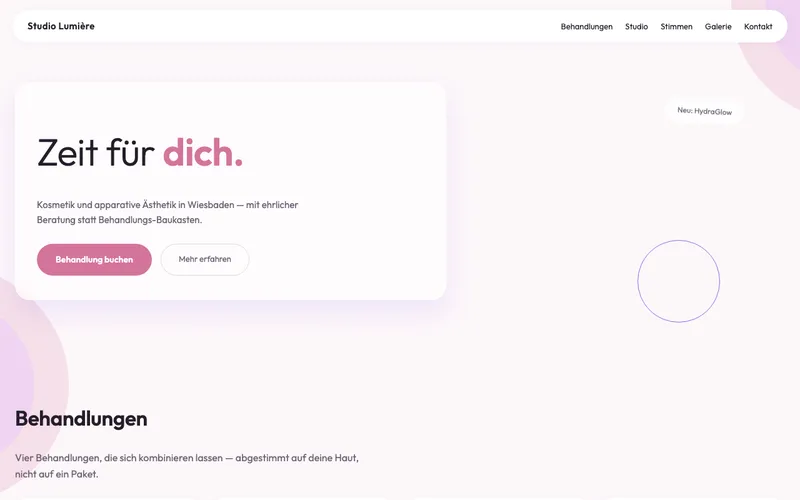
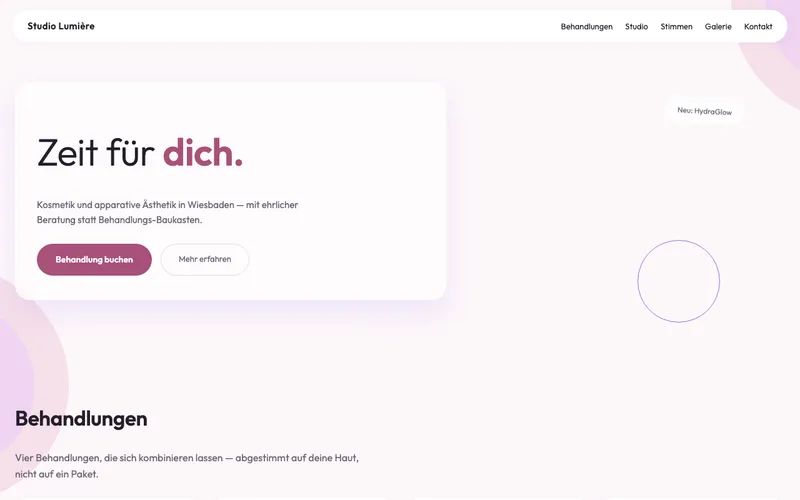
fix: Pack-Vorschauen/Demo-SVGs/Shadows an neue Akzentfarben angepasst, Farbassertion in packs.spec, prefersMenu ohne marktplatz, Esc in Panels schont Entwürfe, regenerateLegalPages ohne Token-Pfad

Changed region(s): [[0.0312, 0.48, 0.1875, 0.57], [0.1875, 0.27, 0.3125, 0.33]]

diff --git a/server/routers.v2Guards.test.ts b/server/routers.v2Guards.test.ts
@@ -148,54 +148,19 @@ beforeEach(() => {
 });
 
 describe("Zentraler Write-Guard (C-3)", () => {
-  test("onboarding.regenerateLegalPages ohne Token/Login (anonym) → FORBIDDEN, kein Write", async () => {
-    mockedDb.getWebsiteById.mockResolvedValue(
-      baseWebsiteRow({ previewToken: "correct-token" })
-    );
+  test("onboarding.regenerateLegalPages ohne Login (anonym) → UNAUTHORIZED, kein Write", async () => {
+    mockedDb.getWebsiteById.mockResolvedValue(baseWebsiteRow());
 
     const caller = appRouter.createCaller(createPublicContext());
     await expect(
       caller.onboarding.regenerateLegalPages({ websiteId: 42 })
-    ).rejects.toMatchObject({ code: "FORBIDDEN" });
+    ).rejects.toMatchObject({ code: "UNAUTHORIZED" });
     expect(mockedDb.getOnboardingByWebsiteId).not.toHaveBeenCalled();
     expect(mockedDb.updateWebsite).not.toHaveBeenCalled();
   });
 
-  test("onboarding.regenerateLegalPages mit passendem previewToken (Studio-Kontext) schreibt nach websiteData.legal.* statt top-level", async () => {
-    mockedDb.getWebsiteById.mockResolvedValue(
-      baseWebsiteRow({ previewToken: "correct-token" })
-    );
-    mockedDb.getOnboardingByWebsiteId.mockResolvedValue({
-      legalOwner: "Max Brandt",
-      legalEmail: "info@brandt.de",
-      legalStreet: "Hauptstraße 1",
-      legalZip: "44135",
-      legalCity: "Dortmund",
-    } as any);
-    mockedDb.updateWebsite.mockResolvedValue(undefined as any);
-
-    const caller = appRouter.createCaller(createPublicContext());
-    const result = await caller.onboarding.regenerateLegalPages({
-      websiteId: 42,
-      token: "correct-token",
-    });
-
-    expect(result).toEqual({ success: true, regenerated: true });
-    expect(mockedDb.updateWebsite).toHaveBeenCalledTimes(1);
-    const [, patch] = mockedDb.updateWebsite.mock.calls[0];
-    const writtenWebsiteData = (patch as any).websiteData;
-    expect(writtenWebsiteData.legal?.impressumHtml).toBeTruthy();
-    expect(writtenWebsiteData.legal?.datenschutzHtml).toBeTruthy();
-    // v1-only Top-Level-Felder dürfen NICHT in websiteData landen (strict schema)
-    expect(writtenWebsiteData.impressumHtml).toBeUndefined();
-    expect(writtenWebsiteData.datenschutzHtml).toBeUndefined();
-    expect(mockedInvalidateSsrCache).toHaveBeenCalledWith("schreinerei-brandt");
-  });
-
-  test("onboarding.regenerateLegalPages im Admin-Kontext (kein Token nötig) schreibt erfolgreich", async () => {
-    mockedDb.getWebsiteById.mockResolvedValue(
-      baseWebsiteRow({ previewToken: "correct-token" })
-    );
+  test("onboarding.regenerateLegalPages im Admin-Kontext schreibt nach websiteData.legal.* statt top-level", async () => {
+    mockedDb.getWebsiteById.mockResolvedValue(baseWebsiteRow());
     mockedDb.getOnboardingByWebsiteId.mockResolvedValue({
       legalOwner: "Max Brandt",
       legalEmail: "info@brandt.de",
@@ -212,12 +177,18 @@ describe("Zentraler Write-Guard (C-3)", () => {
 
     expect(result).toEqual({ success: true, regenerated: true });
     expect(mockedDb.updateWebsite).toHaveBeenCalledTimes(1);
+    const [, patch] = mockedDb.updateWebsite.mock.calls[0];
+    const writtenWebsiteData = (patch as any).websiteData;
+    expect(writtenWebsiteData.legal?.impressumHtml).toBeTruthy();
+    expect(writtenWebsiteData.legal?.datenschutzHtml).toBeTruthy();
+    // v1-only Top-Level-Felder dürfen NICHT in websiteData landen (strict schema)
+    expect(writtenWebsiteData.impressumHtml).toBeUndefined();
+    expect(writtenWebsiteData.datenschutzHtml).toBeUndefined();
+    expect(mockedInvalidateSsrCache).toHaveBeenCalledWith("schreinerei-brandt");
   });
 
-  test("onboarding.regenerateLegalPages als eingeloggter Abo-Inhaber (ohne Token) schreibt erfolgreich", async () => {
-    mockedDb.getWebsiteById.mockResolvedValue(
-      baseWebsiteRow({ previewToken: "correct-token" })
-    );
+  test("onboarding.regenerateLegalPages als eingeloggter Abo-Inhaber schreibt erfolgreich", async () => {
+    mockedDb.getWebsiteById.mockResolvedValue(baseWebsiteRow());
     mockedDb.getSubscriptionByWebsiteId.mockResolvedValue({
       id: 1,
       websiteId: 42,
@@ -242,9 +213,7 @@ describe("Zentraler Write-Guard (C-3)", () => {
   });
 
   test("onboarding.regenerateLegalPages als eingeloggter Nutzer ohne passende Subscription (anderer userId) → FORBIDDEN, kein Write", async () => {
-    mockedDb.getWebsiteById.mockResolvedValue(
-      baseWebsiteRow({ previewToken: "correct-token" })
-    );
+    mockedDb.getWebsiteById.mockResolvedValue(baseWebsiteRow());
     // Subscription existiert, gehört aber einem anderen Nutzer (websiteId
     // stimmt, userId nicht) — isSubscriptionOwner muss false bleiben.
     mockedDb.getSubscriptionByWebsiteId.mockResolvedValue({
@@ -262,9 +231,7 @@ describe("Zentraler Write-Guard (C-3)", () => {
   });
 
   test("onboarding.regenerateLegalPages als eingeloggter Nutzer ohne jede Subscription (getSubscriptionByWebsiteId → null) → FORBIDDEN, kein Write", async () => {
-    mockedDb.getWebsiteById.mockResolvedValue(
-      baseWebsiteRow({ previewToken: "correct-token" })
-    );
+    mockedDb.getWebsiteById.mockResolvedValue(baseWebsiteRow());
     mockedDb.getSubscriptionByWebsiteId.mockResolvedValue(undefined as any);
 
     const caller = appRouter.createCaller(createUserContext(2));

diff --git a/tests/visual/packs.spec.ts b/tests/visual/packs.spec.ts
@@ -1,4 +1,6 @@
 import { expect, test } from "@playwright/test";
+import { getConstitution } from "@shared/stylePacks";
+import type { PackId } from "@shared/siteContract/types";
 
 const PACKS = [
   "werkbank",
@@ -23,6 +25,14 @@ const VIEWPORTS = [
   { name: "desktop", width: 1440, height: 900 },
 ];
 
+// maxDiffPixelRatio enger als der globale Default (playwright.config.ts:
+// 0.01) — der 1%-Wert verschluckte 5 von 6 Farbfixes aus B4c Task 7 (siehe
+// Task-7-Bericht "Important"). 0.003 ist datei-spezifisch (nur hier per
+// Options-Objekt, nicht global), weil studio.spec.ts/landing.spec.ts mit
+// dem globalen Wert weiterlaufen sollen (Live-Preview-iframes/Fokus-Ringe
+// dort brauchen mehr Toleranz).
+const PACKS_MAX_DIFF_PIXEL_RATIO = 0.003;
+
 for (const pack of PACKS)
   for (const fixture of FIXTURES)
     for (const vp of VIEWPORTS) {
@@ -32,7 +42,82 @@ for (const pack of PACKS)
         await page.waitForLoadState("networkidle"); // Fonts geladen
         await expect(page).toHaveScreenshot(
           `${pack}-${fixture}-${vp.name}.png`,
-          { fullPage: true }
+          { fullPage: true, maxDiffPixelRatio: PACKS_MAX_DIFF_PIXEL_RATIO }
         );
       });
     }
+
+/**
+ * Deterministische Farbassertion je Pack (B4c Final-Review-Fixwelle 2):
+ * Screenshot-Diffs allein verschlucken Farbabweichungen unterhalb der
+ * Pixel-Ratio-Schwelle (siehe Task-7-Bericht). Diese Tests prüfen den
+ * computed style des primären Hero-CTAs direkt gegen die Verfassung
+ * (`getConstitution(pack).palette`) — unabhängig vom Diff-Schwellenwert.
+ *
+ * Selektor + CSS-Eigenschaft je Pack aus dem jeweiligen `css.ts` ermittelt
+ * (siehe `client/src/components/site/packs/<pack>/css.ts`):
+ * - Die meisten Packs rendern den Hero-CTA als gefüllten Button
+ *   (`background:var(--pb-accent)`) → `background-color` gegen `accent`.
+ * - `kanzlei` und `salon-noir` rendern den CTA als reinen Textlink/Outline
+ *   mit `color:var(--pb-accent)` im Ruhezustand → `color` gegen `accent`.
+ * - `atelier` und `fundament` färben den CTA im Ruhezustand NICHT mit
+ *   `accent`, sondern mit `ink` (atelier: `.pb-at-lnk` erbt `color` von
+ *   `.pb-atelier{color:var(--pb-ink)}` und hat `border-bottom:var(--pb-ink)`;
+ *   fundament: `.pb-fd-cta{background:var(--pb-ink)}`) — hier wird explizit
+ *   gegen den `ink`-Paletteneintrag geprüft, nicht gegen `accent`.
+ */
+const CTA_COLOR_CHECKS: Record<
+  PackId,
+  { selector: string; prop: "background-color" | "color"; role: "accent" | "ink" }
+> = {
+  werkbank: { selector: "a.pb-wb-cta", prop: "background-color", role: "accent" },
+  kanzlei: { selector: "a.pb-kz-link", prop: "color", role: "accent" },
+  morgenlicht: { selector: "a.pb-ml-cta", prop: "background-color", role: "accent" },
+  gusto: { selector: "a.pb-gu-cta", prop: "background-color", role: "accent" },
+  patina: { selector: "a.pb-pa-cta", prop: "background-color", role: "accent" },
+  "salon-noir": { selector: "a.pb-sn-cta", prop: "color", role: "accent" },
+  marktplatz: { selector: "a.pb-mp-cta", prop: "background-color", role: "accent" },
+  landgut: { selector: "a.pb-lg-cta", prop: "background-color", role: "accent" },
+  atelier: { selector: "a.pb-at-lnk", prop: "color", role: "ink" },
+  klarwerk: { selector: "a.pb-kw-hero-cta", prop: "background-color", role: "accent" },
+  verve: { selector: "a.pb-vv-cta", prop: "background-color", role: "accent" },
+  zunft: { selector: "a.pb-zf-cta", prop: "background-color", role: "accent" },
+  schimmer: { selector: "a.pb-sc-cta", prop: "background-color", role: "accent" },
+  fundament: { selector: "a.pb-fd-cta", prop: "background-color", role: "ink" },
+};
+
+/** "rgb(r, g, b)" / "rgba(r, g, b, a)" → "#rrggbb" (lowercase). */
+function rgbStringToHex(rgb: string): string {
+  const match = rgb.match(/rgba?\((\d+),\s*(\d+),\s*(\d+)/);
+  if (!match) throw new Error(`Kein rgb()-Farbwert: "${rgb}"`);
+  const [, r, g, b] = match;
+  return (
+    "#" +
+    [r, g, b]
+      .map(n => Number(n).toString(16).padStart(2, "0"))
+      .join("")
+      .toLowerCase()
+  );
+}
+
+for (const pack of PACKS) {
+  const check = CTA_COLOR_CHECKS[pack];
+  test(`${pack}: Hero-CTA-Farbe entspricht Verfassung (${check.role})`, async ({ page }) => {
+    await page.goto(`/dev/site-preview?pack=${pack}&fixture=full`);
+    await page.waitForLoadState("networkidle");
+
+    const constitution = getConstitution(pack);
+    const paletteEntry = constitution.palette.find(p => p.role === check.role);
+    if (!paletteEntry)
+      throw new Error(`Pack "${pack}" hat keinen Paletteneintrag mit role "${check.role}"`);
+
+    const cta = page.locator(check.selector).first();
+    await expect(cta).toBeVisible();
+    const computed = await cta.evaluate(
+      (el, prop) => getComputedStyle(el).getPropertyValue(prop),
+      check.prop
+    );
+
+    expect(rgbStringToHex(computed)).toBe(paletteEntry.hex.toLowerCase());
+  });
+}

diff --git a/server/routers.ts b/server/routers.ts
@@ -1924,11 +1924,13 @@ Diese E-Mail wurde von Christian Slater, Gründer von Pageblitz, gesendet.<br>
       }),
 
     // Regenerate legal pages (Impressum & Datenschutz) after legal data changes.
-    // Zugriff (Spec §2.3): Admin, Studio-Kontext (passender previewToken)
-    // oder eingeloggter Abo-Inhaber — sonst FORBIDDEN. Bleibt publicProcedure,
-    // weil der anonyme Studio-Kontext (Token statt Login) erlaubt sein muss.
-    regenerateLegalPages: publicProcedure
-      .input(z.object({ websiteId: z.number(), token: z.string().optional() }))
+    // Zugriff (Spec §2.3, verschärft in B4c Final-Review-Fixwelle 2): nur
+    // Admin oder eingeloggter Abo-Inhaber — kein anonymer Token-Pfad mehr
+    // (der previewToken-Zweig hatte keinen Client-Aufrufer und war
+    // schwächer als die Ownership-Prüfung; siehe Final-Review). Deshalb
+    // protectedProcedure statt publicProcedure.
+    regenerateLegalPages: protectedProcedure
+      .input(z.object({ websiteId: z.number() }))
       .mutation(async ({ ctx, input }) => {
         const website = await getWebsiteById(input.websiteId);
         if (!website)
@@ -1937,20 +1939,16 @@ Diese E-Mail wurde von Christian Slater, Gründer von Pageblitz, gesendet.<br>
             message: "Website nicht gefunden",
           });
 
-        const isAdmin = ctx.user?.role === "admin";
-        const hasValidToken =
-          !!input.token &&
-          !!website.previewToken &&
-          input.token === website.previewToken;
+        const isAdmin = ctx.user.role === "admin";
         let isSubscriptionOwner = false;
-        if (!isAdmin && !hasValidToken && ctx.user) {
+        if (!isAdmin) {
           const subscription = await getSubscriptionByWebsiteId(
             input.websiteId
           );
           isSubscriptionOwner =
             !!subscription && subscription.userId === ctx.user.id;
         }
-        if (!isAdmin && !hasValidToken && !isSubscriptionOwner) {
+        if (!isAdmin && !isSubscriptionOwner) {
           throw new TRPCError({
             code: "FORBIDDEN",
             message: "Kein Zugriff auf diese Website.",

diff --git a/client/src/pages/onboarding-v2/panels/usePanelFocus.ts b/client/src/pages/onboarding-v2/panels/usePanelFocus.ts
@@ -25,7 +25,24 @@ import type { ChecklistItemId } from "@shared/onboardingV2/checklist";
  * `onClose={() => setActiveId(null)}`) — als Dependency würde das den Effekt
  * bei jedem Tastenanschlag in einem Formularfeld neu ausführen und dabei
  * ungewollt den Fokus zurückreißen (Cleanup läuft bei jedem Re-Run).
+ *
+ * Esc wird ignoriert, wenn der Tastendruck aus einem Eingabefeld
+ * (input/textarea/select/[contenteditable]) kommt oder Teil einer IME-
+ * Komposition ist (`isComposing`) — sonst würde Esc beim Abbrechen einer
+ * IME-Eingabe oder beim Verlassen eines Formularfelds versehentlich das
+ * ganze Panel schließen und einen ungespeicherten Entwurf verwerfen (B4c
+ * Final Review Fixwelle 2).
  */
+function isEditableTarget(target: EventTarget | null): boolean {
+  if (!(target instanceof HTMLElement)) return false;
+  const tag = target.tagName;
+  return (
+    tag === "INPUT" ||
+    tag === "TEXTAREA" ||
+    tag === "SELECT" ||
+    target.isContentEditable
+  );
+}
 export function usePanelFocus(
   panelId: ChecklistItemId,
   onClose: () => void
@@ -38,10 +55,11 @@ export function usePanelFocus(
     headingRef.current?.focus();
 
     function onKeyDown(event: KeyboardEvent): void {
-      if (event.key === "Escape") {
-        event.preventDefault();
-        onCloseRef.current();
-      }
+      if (event.key !== "Escape") return;
+      if (event.isComposing) return;
+      if (isEditableTarget(event.target)) return;
+      event.preventDefault();
+      onCloseRef.current();
     }
     window.addEventListener("keydown", onKeyDown);
     return () => {

diff --git a/client/src/components/site/packs/marktplatz/css.ts b/client/src/components/site/packs/marktplatz/css.ts
@@ -14,8 +14,8 @@ export const MARKTPLATZ_CSS = `
 .pb-mp-accent-word{position:relative;display:inline-block;color:var(--pb-accent)}
 .pb-mp-squiggle{position:absolute;left:0;right:0;bottom:-10px;width:100%;height:10px;overflow:visible}
 .pb-mp-sub{margin-top:14px;color:var(--pb-muted);font-size:15px;max-width:44ch}
-.pb-marktplatz a.pb-mp-cta{display:inline-block;margin-top:24px;background:var(--pb-accent);color:var(--pb-accent-contrast);padding:13px 28px;border-radius:var(--pb-radius-button);font-family:var(--pb-font-display);font-weight:800;font-size:14.5px;box-shadow:0 4px 0 #D94A37;transition:transform .15s}
-.pb-mp-cta:hover,.pb-mp-cta:focus-visible{transform:translateY(2px);box-shadow:0 2px 0 #D94A37}
+.pb-marktplatz a.pb-mp-cta{display:inline-block;margin-top:24px;background:var(--pb-accent);color:var(--pb-accent-contrast);padding:13px 28px;border-radius:var(--pb-radius-button);font-family:var(--pb-font-display);font-weight:800;font-size:14.5px;box-shadow:0 4px 0 color-mix(in srgb, var(--pb-accent) 80%, black);transition:transform .15s}
+.pb-mp-cta:hover,.pb-mp-cta:focus-visible{transform:translateY(2px);box-shadow:0 2px 0 color-mix(in srgb, var(--pb-accent) 80%, black)}
 .pb-mp-photo-wrap{position:relative;flex:0 1 280px;min-width:150px;margin-top:14px}
 .pb-mp-photo{position:relative;z-index:1;display:block;width:100%;aspect-ratio:4/5;object-fit:cover;border-radius:var(--pb-radius-card);transform:rotate(3deg);box-shadow:0 6px 0 var(--pb-line)}
 .pb-mp-sticker{position:absolute;font-family:var(--pb-font-display);z-index:3;text-align:center;white-space:nowrap}

diff --git a/shared/stylePacks/marktplatz.ts b/shared/stylePacks/marktplatz.ts
@@ -16,11 +16,6 @@ export const MARKTPLATZ: PackConstitution = {
     "hundesalon",
     "fahrschule",
   ],
-  // Enthält "eisdiele" (Gastro-Begriff) — Angebot-Panel startet im
-  // Speisekarten-Modus (B4c Task 7, siehe PackConstitution.prefersMenu).
-  // Betrifft alle Branchen dieses Packs einheitlich (kein Branchen-Split
-  // innerhalb eines Packs vorgesehen).
-  prefersMenu: true,
   theme: "light",
   palette: [
     {
